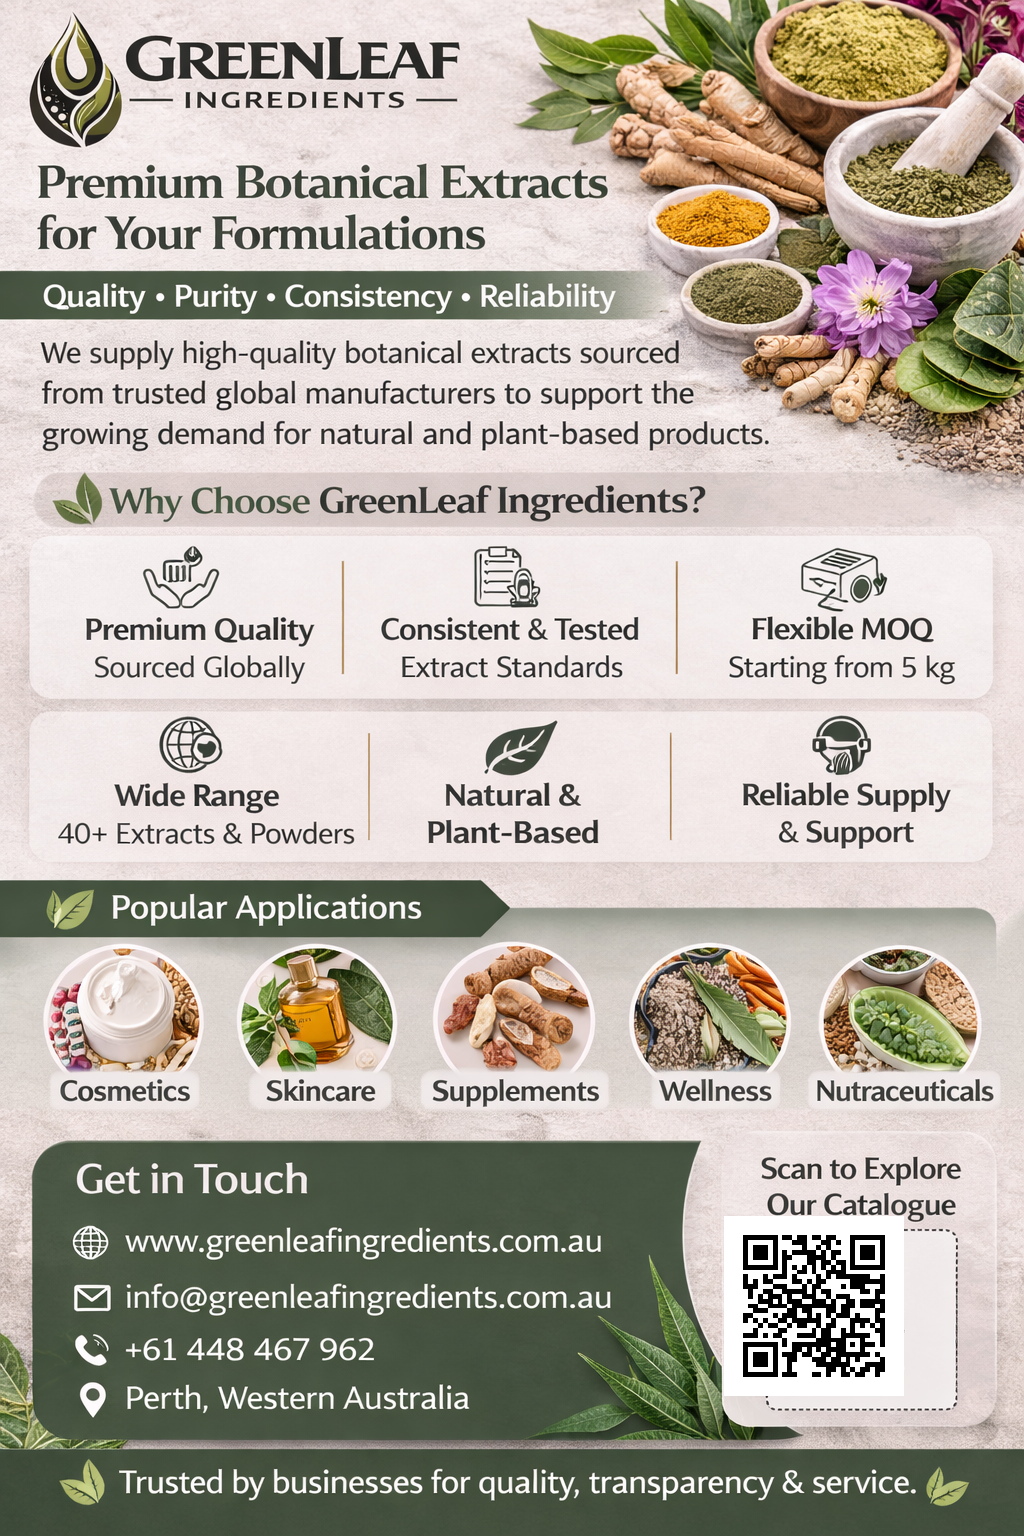
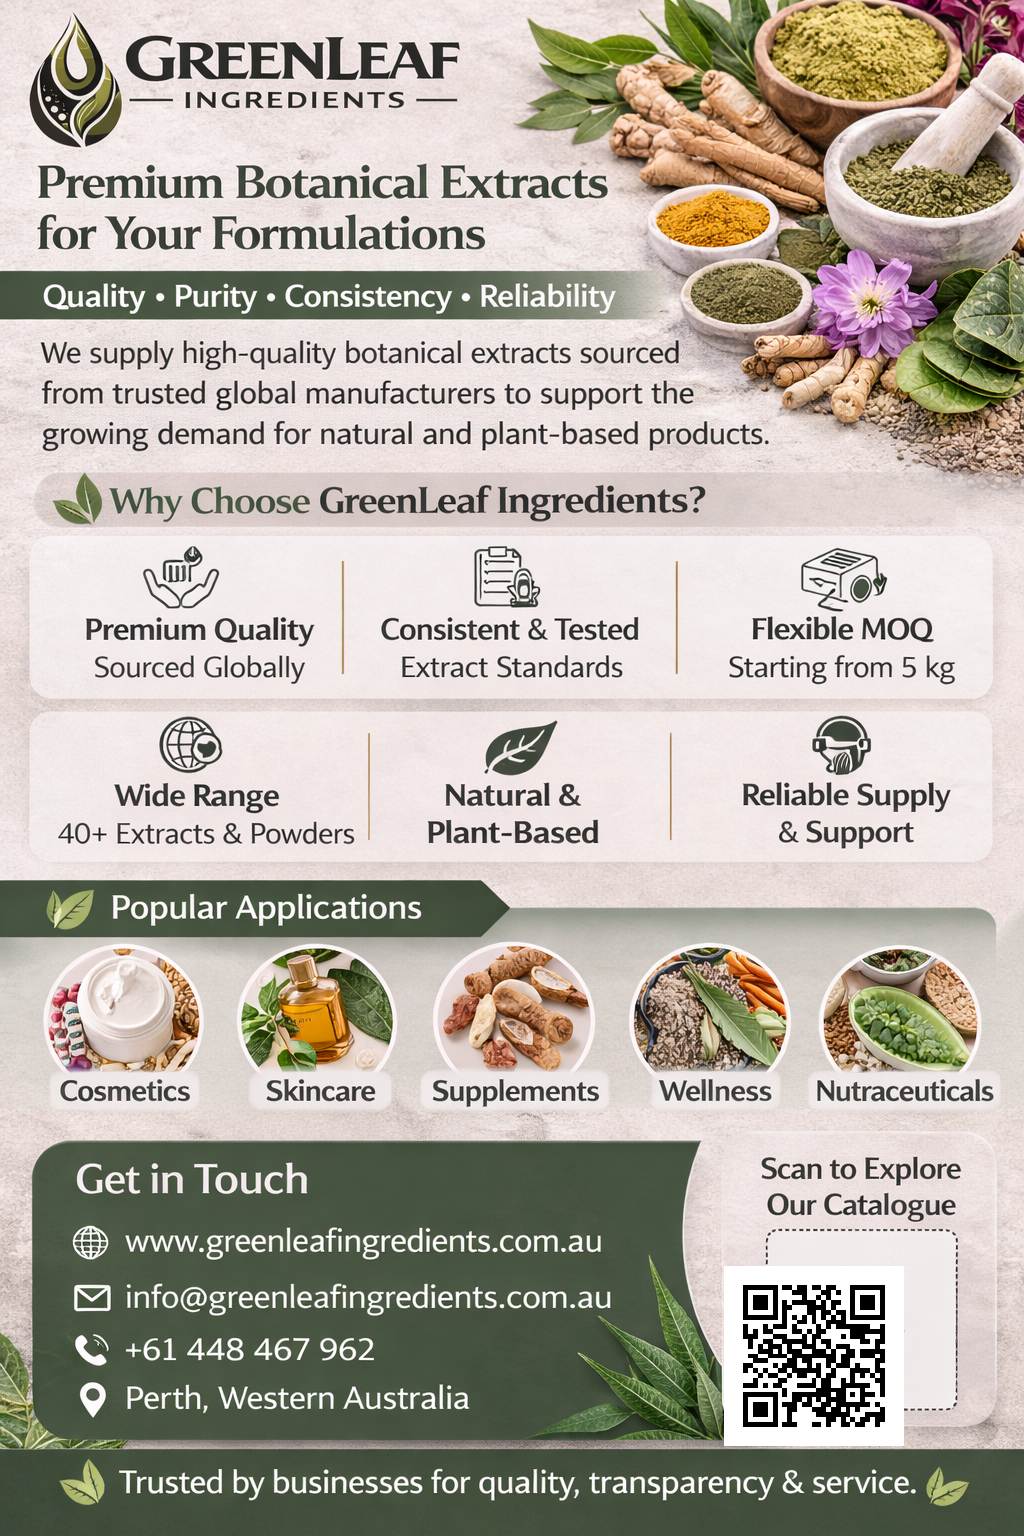
Move QR code down

Changed region(s): [[0.6875, 0.7812, 0.9062, 0.9688]]

diff --git a/add_qr_to_front_flyer.py b/add_qr_to_front_flyer.py
@@ -21,9 +21,9 @@ qr_img = qr_img.resize((qr_size, qr_size))
 # Position QR code at bottom right with margin
 margin = 40
 x = width - qr_size - margin - 80
-y = height - qr_size - margin - 100
+y = height - qr_size - margin - 50
 
-print(f"Placing QR code at bottom right (moved left and up): x={x}, y={y}")
+print(f"Placing QR code at bottom right (moved left and slightly down): x={x}, y={y}")
 
 # Paste QR code
 base.paste(qr_img, (x, y))
